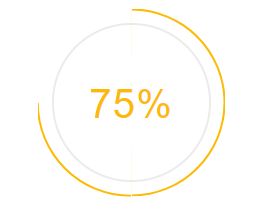
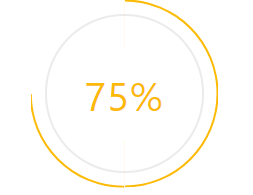
Added responsiveness

Changed region(s): [[0.3043, 0.0, 0.8854, 0.9846], [0.332, 0.4, 0.664, 0.5846], [0.1107, 0.4923, 0.3043, 0.8923]]

diff --git a/index.html b/index.html
@@ -73,17 +73,17 @@
                         sed do eiusmod delectus reiciendis maiores alias consequatur aut.maiores alias Lorem ipsum
                         dolor sit amet, consectetur</p>
                     <div class="percentage">
-                        <div class="save-plant perc">
+                        <div class="perc">
                             <img src="/image/90-per.PNG"
                                  alt="90%">
                             <h5 class="per-text">Save Plants</h5>
                         </div>
-                        <div class="planting perc">
+                        <div class="perc">
                             <img src="/image/80-per.PNG"
                                  alt="80%">
                             <h5 class="per-text">Planting</h5>
                         </div>
-                        <div class="save-tree perc">
+                        <div class="perc">
                             <img src="/image/75-per.PNG"
                                  alt="75%">
                             <h5 class="per-text">Save Trees</h5>
@@ -308,7 +308,8 @@
                     <div class="card">
                         <h4 class="green-text">GOLDEN</h4>
                         <h4>
-                            <span>$<span class="green-text">50</span></span>
+                            <span>$<span class="green-text"
+                                      style="font-size: 32px;">50</span></span>
                             <span>/month</span>
                         </h4>
                         <div class="price-list-text">
@@ -326,7 +327,8 @@
                     <div class="card">
                         <h4 class="green-text">PREMIUM</h4>
                         <h4>
-                            <span>$<span class="green-text">60</span></span>
+                            <span>$<span class="green-text"
+                                      style="font-size: 32px;">60</span></span>
                             <span>/month</span>
                         </h4>
                         <div class="price-list-text">
@@ -344,7 +346,8 @@
                     <div class="card">
                         <h4 class="green-text">PLATINIUM</h4>
                         <h4>
-                            <span>$<span class="green-text">70</span></span>
+                            <span>$<span class="green-text"
+                                      style="font-size: 32px;">70</span></span>
                             <span>/month</span>
                         </h4>
                         <div class="price-list-text">
@@ -362,7 +365,8 @@
                     <div class="card">
                         <h4 class="green-text">SILVER</h4>
                         <h4>
-                            <span>$<span class="green-text">80</span></span>
+                            <span>$<span class="green-text"
+                                      style="font-size: 32px;">80</span></span>
                             <span>/month</span>
                         </h4>
                         <div class="price-list-text">

diff --git a/css/style.css b/css/style.css
@@ -22,7 +22,6 @@ h6 {
 	background: url(/image/forest.jpg) no-repeat center;
 	color: white;
 	min-height: 800px;
-	height: 100vh;
 }
 
 #logo {
@@ -147,19 +146,18 @@ nav {
 	color: #a3c962;
 }
 
+.service-listing .service h3 {
+	font-size: 20px;
+	font-size: auto;
+}
+
 .visions {
 	text-transform: uppercase;
-}
-.leaf-img {
-	max-width: 50%;
-	padding: 0px 60px;
-	position: relative;
 }
 
 .about-us {
 	width: 70vw;
 	margin: auto;
-	height: 100vh;
 	text-align: center;
 	margin-top: 50px;
 	padding: 30px 0px;
@@ -188,21 +186,48 @@ nav {
 
 .box2 {
 	display: flex;
-	align-content: space-between;
+	justify-content: space-between;
 	margin-top: 8%;
 	flex-wrap: wrap;
+	/* margin: auto; */
+	/* border: 2px solid red; */
 }
 
+.leaf-img img {
+	width: 100%;
+}
 .mission {
 	text-align: left;
 	width: auto;
-	max-width: 50%;
+	max-width: 55%;
 	flex: 0 0 50%;
-	position: relative;
+	display: flex;
+	flex-direction: column;
+	/* border: 2px solid blue; */
+	flex-wrap: wrap;
+	flex: 2;
+}
+.percentage {
+	display: flex;
+	justify-content: space-between;
+}
+.perc {
+	justify-content: space-between;
+	align-content: space-between;
+}
+
+.perc h5 {
+	justify-content: center;
+	align-content: center;
+	width: max-content;
+	height: max-content;
+	text-align: right;
+	margin: auto;
+	padding-top: 1.5rem;
 }
 .box2 h5 {
 	font-size: 22px;
-	margin-bottom: 10px;
+	justify-content: center;
 }
 
 .box2 h6 {
@@ -217,18 +242,13 @@ nav {
 	letter-spacing: 1px;
 	padding: 10px 0px;
 	text-align: left;
-	width: 85%;
 	line-height: 28px;
 }
 
-.percentage {
-	display: flex;
-	justify-content: space-between;
-	text-align: center;
-}
-
 .percentage img {
-	width: 80%;
+	width: 90%;
+	justify-content: center;
+	align-content: center;
 }
 
 .planting img {
@@ -241,7 +261,6 @@ nav {
 
 .services {
 	background-image: url("/image/trees.jpg");
-	height: 100vh;
 	padding-top: 80px;
 }
 .service-intro {
@@ -425,6 +444,8 @@ nav {
 	width: auto;
 	flex: 0 0 50%;
 	padding-left: 15px;
+	display: flex;
+	flex-direction: column;
 }
 
 .feature {
@@ -436,7 +457,7 @@ nav {
 	margin: 4%;
 	box-shadow: -3px 7px 39px -5px rgb(0 0 0);
 	margin-left: auto;
-	width: 100%;
+	min-width: 100%;
 }
 
 .text-desc-style {
@@ -451,10 +472,8 @@ nav {
 }
 
 .feature img {
-	max-width: 100%;
-	padding-right: 60px;
-	padding-left: 60px;
-	text-align: center !important;
+	max-width: 20em;
+	text-align: center;
 }
 
 .feature-container {
@@ -469,6 +488,7 @@ nav {
 	display: flex;
 	margin: 3% 5%;
 	justify-content: space-around;
+	flex-wrap: wrap;
 }
 
 .plantation-image {
@@ -486,7 +506,7 @@ nav {
 .price-cards {
 	display: flex;
 	margin-bottom: 1.5rem;
-	width: 70%;
+	width: 75%;
 	justify-content: space-between;
 	text-align: center;
 	flex-wrap: wrap;
@@ -565,4 +585,11 @@ nav {
 .clients {
 	display: flex;
 	justify-content: space-between;
+}
+
+.green-banner {
+	display: flex;
+	justify-content: center;
+	align-content: center;
+	flex-direction: column;
 }
